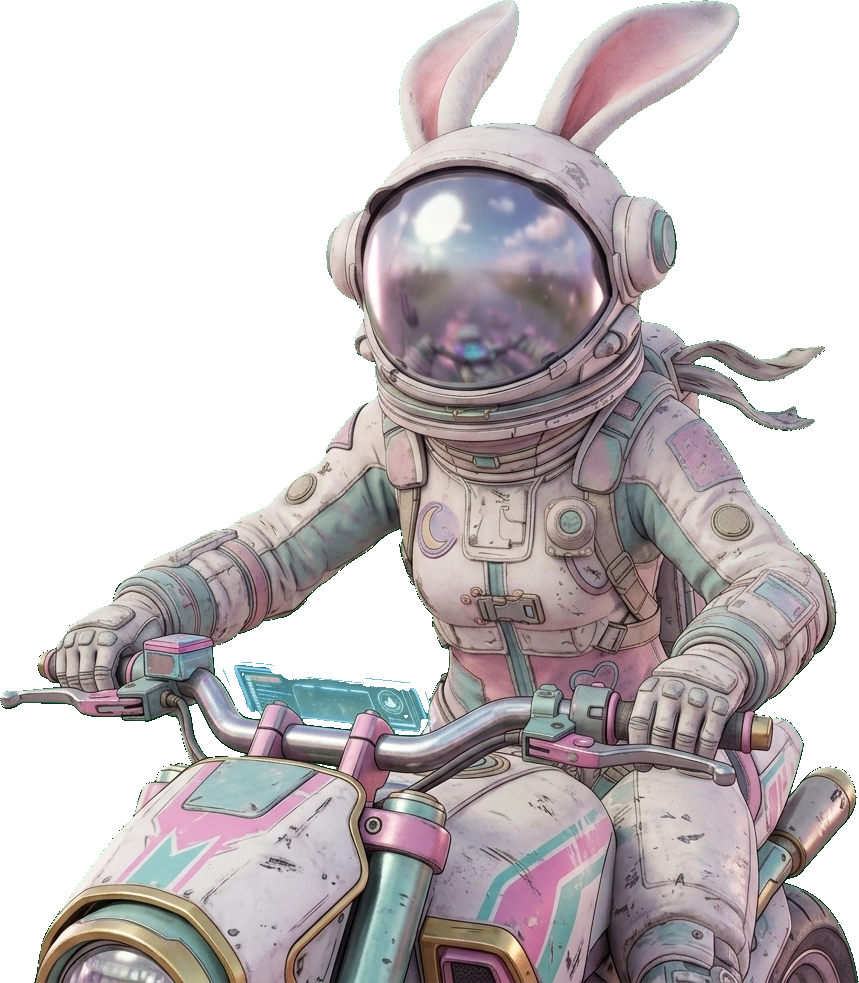
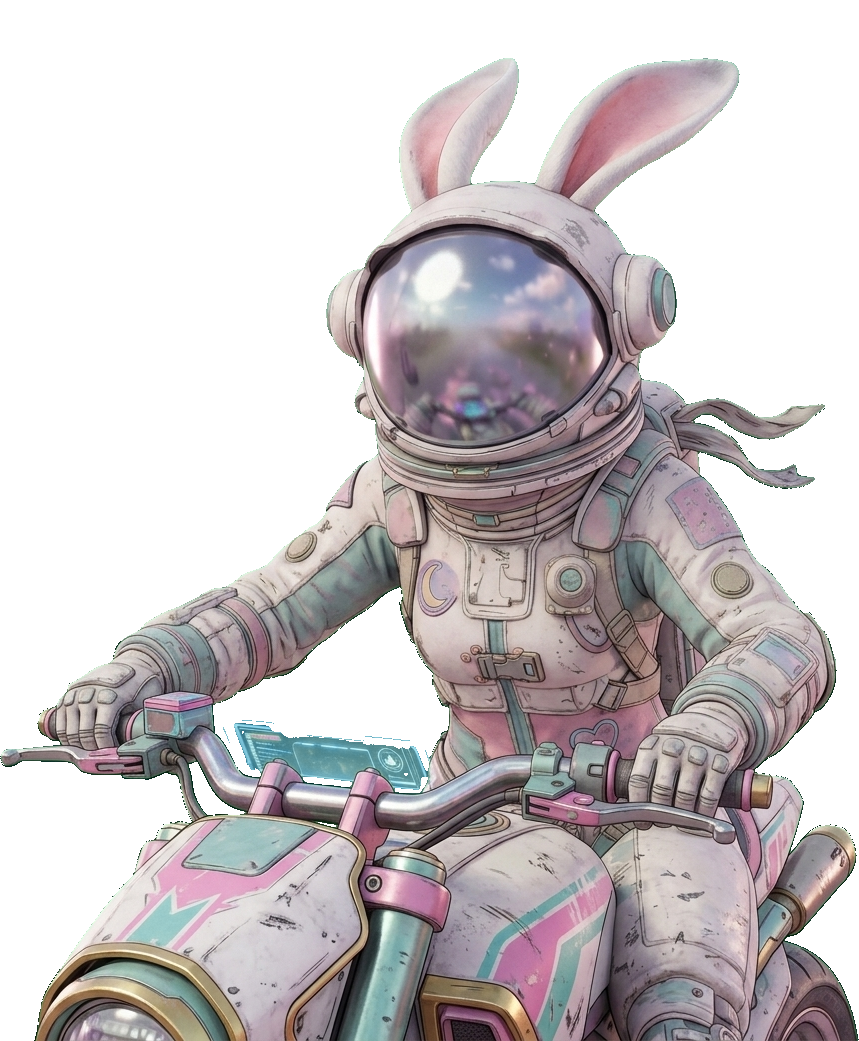
auto-commit for b83c9753-be83-4dac-bcab-70d46b997f58

diff --git a/frontend/src/index.css b/frontend/src/index.css
@@ -295,22 +295,24 @@ body {
 .cb-root.cb-home { bottom: 108px; }
 .cb-root > * { pointer-events: auto; }
 
+.cb-mascot-wrap { position: relative; }
 .cb-mascot {
-  position: relative; width: 64px; height: 64px; border-radius: 999px; overflow: hidden; padding: 0;
+  position: relative; width: 66px; height: 66px; border-radius: 999px; overflow: hidden; padding: 0; display: block;
   border: 2px solid var(--brand); background: #0b0b12;
   box-shadow: 0 6px 18px rgba(0,0,0,0.45), 0 0 0 3px color-mix(in srgb, var(--brand) 14%, transparent);
   cursor: pointer; transition: transform 0.15s ease;
 }
 .cb-mascot:hover { transform: translateY(-2px) scale(1.05); }
 .cb-mascot:active { transform: scale(0.95); }
-.cb-stage { position: absolute; inset: 0; background-size: cover; background-position: 50% 28%; z-index: 0; }
+.cb-stage { position: absolute; inset: 0; background-size: cover; background-position: 50% 35%; z-index: 0; }
 .cb-stage::after { content: ""; position: absolute; inset: 0; background: var(--brand); mix-blend-mode: color; opacity: 0.5; }
-.cb-mascot .cb-sprite { position: absolute; inset: 0; width: 100%; height: 100%; object-fit: cover; object-position: 50% 6%; z-index: 1; pointer-events: none; transition: opacity 0.15s ease; filter: saturate(0.92) brightness(0.98); }
-.cb-mascot .cb-tint { position: absolute; inset: 0; z-index: 2; pointer-events: none; background: var(--brand); mix-blend-mode: soft-light; opacity: 0.4; }
-.cb-mascot::after { content: ""; position: absolute; inset: 0; border-radius: inherit; z-index: 3; pointer-events: none; background: radial-gradient(125% 95% at 50% 20%, transparent 42%, rgba(0,0,0,0.55) 100%); box-shadow: inset 0 0 10px rgba(0,0,0,0.55); }
+.cb-mascot .cb-sprite { position: absolute; inset: 0; width: 100%; height: 100%; object-fit: contain; object-position: 50% 100%; z-index: 1; pointer-events: none; transition: opacity 0.15s ease; filter: saturate(0.95); }
+.cb-mascot .cb-tint { position: absolute; inset: 0; z-index: 2; pointer-events: none; background: var(--brand); mix-blend-mode: soft-light; opacity: 0.32; }
+.cb-mascot::after { content: ""; position: absolute; inset: 0; border-radius: inherit; z-index: 3; pointer-events: none; background: radial-gradient(130% 100% at 50% 18%, transparent 55%, rgba(0,0,0,0.45) 100%); box-shadow: inset 0 0 8px rgba(0,0,0,0.45); }
 .cb-custom .cb-tint, .cb-custom::after { display: none; }
+.cb-custom .cb-sprite { object-fit: cover; }
 
-.cb-help { position: absolute; top: -5px; right: -5px; z-index: 5; width: 22px; height: 22px; border-radius: 999px; background: var(--brand); color: var(--bg-primary); font-weight: 800; font-size: 13px; line-height: 1; display: grid; place-items: center; border: 2px solid var(--bg-primary); box-shadow: 0 2px 8px rgba(0,0,0,0.5); animation: cbHelpPulse 2s ease-in-out infinite; pointer-events: none; }
+.cb-help { position: absolute; top: -6px; right: -6px; z-index: 6; width: 24px; height: 24px; border-radius: 999px; background: var(--brand); color: var(--bg-primary); font-weight: 800; font-size: 14px; line-height: 1; display: grid; place-items: center; border: 2px solid var(--bg-primary); box-shadow: 0 2px 8px rgba(0,0,0,0.55); animation: cbHelpPulse 2s ease-in-out infinite; pointer-events: none; }
 @keyframes cbHelpPulse { 0%,100% { transform: scale(1); } 50% { transform: scale(1.18); } }
 
 @keyframes cbBounce { 0%,100% { transform: translateY(0); } 30% { transform: translateY(-6px); } 55% { transform: translateY(0); } 70% { transform: translateY(-3px); } }
@@ -339,9 +341,13 @@ body {
 .cb-mute:hover { color: var(--brand); }
 
 @media (min-width: 768px) {
-  .cb-root { left: auto; right: 22px; bottom: 22px; align-items: flex-end; }
-  .cb-root.cb-home { bottom: 22px; }
-  .cb-mascot { width: 74px; height: 74px; }
-  .cb-help { right: auto; left: -5px; }
-  .cb-bubble::after { left: auto; right: 22px; }
+  .cb-root { left: auto; right: 24px; bottom: 84px; align-items: flex-end; gap: 12px; }
+  .cb-root.cb-home { bottom: 84px; }
+  .cb-mascot { width: 80px; height: 80px; }
+  .cb-help { right: auto; left: -6px; width: 26px; height: 26px; font-size: 15px; }
+  .cb-bubble { width: min(92vw, 360px); padding: 18px 20px 16px; border-radius: 18px; }
+  .cb-bubble::after { left: auto; right: 26px; }
+  .cb-name { font-size: 0.84rem; }
+  .cb-text { font-size: 1rem; line-height: 1.55; }
+  .cb-cta, .cb-next { font-size: 0.9rem; }
 }

diff --git a/frontend/src/components/CosmicBunny.js b/frontend/src/components/CosmicBunny.js
@@ -170,12 +170,14 @@ export default function CosmicBunny() {
           <button className="cb-mute" onClick={talkLess} data-testid="cb-talk-less">Je parle trop ? 🙉 Chut !</button>
         </div>
       )}
-      <button className={`cb-mascot ${bounce ? "cb-bounce" : ""} ${customImg ? "cb-custom" : ""}`} onClick={() => (open ? closeTips() : openManually())} data-testid="cb-mascot" aria-label="Cosmic Bunny — conseils">
-        {!customImg && <span className="cb-stage" aria-hidden="true" style={{ backgroundImage: `url(${process.env.PUBLIC_URL}/cosmic-bunny/alley.jpg)` }} />}
-        <img className="cb-sprite" src={spriteSrc} alt="Cosmic Bunny" draggable="false" data-pose={pose} />
-        {!customImg && <span className="cb-tint" aria-hidden="true" />}
+      <div className="cb-mascot-wrap">
+        <button className={`cb-mascot ${bounce ? "cb-bounce" : ""} ${customImg ? "cb-custom" : ""}`} onClick={() => (open ? closeTips() : openManually())} data-testid="cb-mascot" aria-label="Cosmic Bunny — conseils">
+          {!customImg && <span className="cb-stage" aria-hidden="true" style={{ backgroundImage: `url(${process.env.PUBLIC_URL}/cosmic-bunny/alley.jpg)` }} />}
+          <img className="cb-sprite" src={spriteSrc} alt="Cosmic Bunny" draggable="false" data-pose={pose} />
+          {!customImg && <span className="cb-tint" aria-hidden="true" />}
+        </button>
         {!open && <span className="cb-help" aria-hidden="true">?</span>}
-      </button>
+      </div>
     </div>
   );
 }

diff --git a/memory/PRD.md b/memory/PRD.md
@@ -305,5 +305,12 @@ Un créateur unique gérant sa bibliothèque personnelle depuis PC / tablette / 
 - **Fiche « Cosmic Bunny » (son aventure)** : nouveau contexte `bunny_story` déclenché par `Detail.js` (dispatch `sx-cb-context:"bunny_story"` si `title.trim().toLowerCase()==="cosmic bunny"`). Nouvelle **pose `moto`** (`/cosmic-bunny/moto.png`, buste sur sa moto) + phrases spéciales in-character (« *vrooom* je débarque en moto 🏍 »). Éditable dans Settings (page « Fiche Cosmic Bunny (son aventure) »). Défauts ajoutés backend + frontend.
 - Vérifié par screenshots : desktop bas-droite cercle buste immergé + bulle à droite ; fiche Cosmic Bunny → pose `moto` + texte spécial ; badge « ? » présent à la fermeture ; retour pose neutral après sad.
 
+## Cosmic Bunny v3.2 (correctifs coupe/zoom/badge/bulle PC) — 28/07/2026
+- **Plus de coupe & plus de zoom incohérent** : sprites re-traités en « buste + mains » (crop haut ~64-70 %, jambes retirées) puis paddés sur un cadre uniforme ~3:4 ; affichage passé de `object-fit:cover` à **`contain`** (`object-position:50% 100%`) → mains visibles, aucune coupe, échelle identique entre poses.
+- **Badge « ? » sorti du cercle** : le cercle est `overflow:hidden` (clippait le badge). Ajout d'un wrapper `.cb-mascot-wrap` (overflow visible) ; `.cb-help` positionné À L'EXTÉRIEUR (coin) — visible. Desktop : coin haut-gauche ; mobile : coin haut-droite.
+- **Bulle PC remontée + agrandie** : `@media min-width:768px` → `.cb-root { right:24px; bottom:84px }` (au-dessus du texte « naviguer · catégories · Entrée »), bulle `min(92vw,360px)`, texte 1rem, mascotte 80 px.
+- Vérifié par screenshots (desktop) : badge « ? » visible hors cercle (box distincte au coin), mains non coupées, bulle plus grande au-dessus du hint de navigation. Mobile suit le CSS mobile-first (cercle 66 px, badge haut-droite).
+
+
 
 
